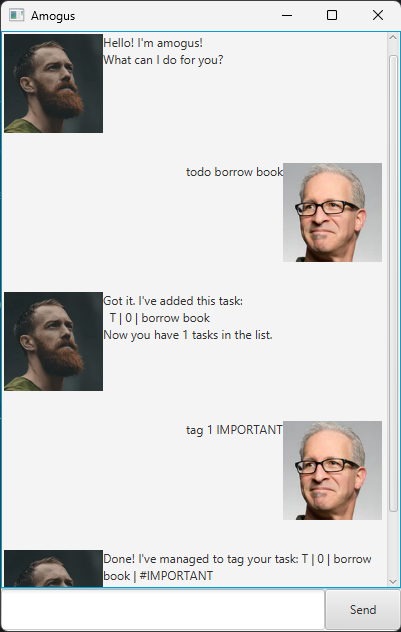
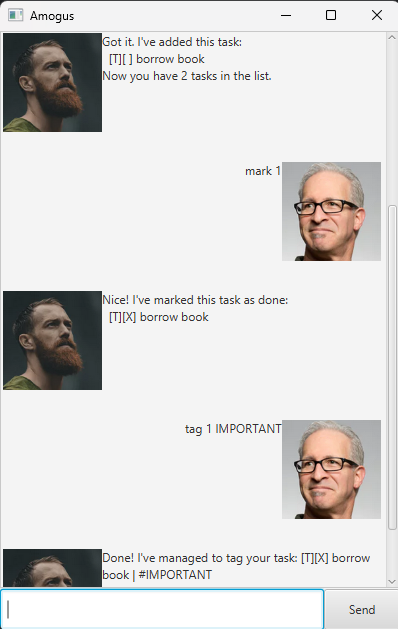
Fix minor issues

diff --git a/src/main/java/tasks/Task.java b/src/main/java/tasks/Task.java
@@ -34,6 +34,20 @@ public class Task {
     }
 
     /**
+     * @return description of task.
+     */
+    public String getDescription() {
+        return this.description;
+    }
+
+    /**
+     * @return boolean check of whether task is done.
+     */
+    public boolean isDone() {
+        return isDone;
+    }
+
+    /**
      * Marks task as complete.
      */
     public void mark() {
@@ -73,10 +87,27 @@ public class Task {
     }
 
     /**
+     * Returns the type of task.
+     * @return type of task.
+     */
+    public String getType() {
+        return " ";
+    }
+
+    /**
+     * Correct display of task for easier understanding.
+     * @return display string of task.
+     */
+    public String getDisplayString() {
+        String statusIcon = isDone ? "X" : " ";
+        return "[" + getType() + "][" + statusIcon + "] " + description + getTag();
+    }
+
+    /**
      * @return string representation of Task
      */
     public String toString() {
-        return this.getStatusIcon() + " | " + this.description;
+        return getType() + " | " + (isDone ? "1" : "0") + " | " + description + getTag();
     }
 
 }

diff --git a/src/main/java/command/TagCommand.java b/src/main/java/command/TagCommand.java
@@ -20,6 +20,14 @@ public class TagCommand implements Command {
         this.desc = desc;
     }
 
+    /**
+     * Tags the task with the given tag information.
+     * @param tasks list of tasks
+     * @param ui ui
+     * @param f list of tasks txt file
+     * @return message of completed tag
+     * @throws AmogusException empty tag
+     */
     @Override
     public String execute(TaskList tasks, UI ui, FileStorage f) throws AmogusException {
         String[] parts = desc.split(" ", 2);
@@ -32,12 +40,16 @@ public class TagCommand implements Command {
             System.out.println(e.getMessage());
             return e.getMessage();
         }
-        String msg = "Done! I've managed to tag your task: " + tasks.getTaskDesc(idx) + "\n";
+        String msg = "Done! I've managed to tag your task: " + tasks.get(idx).getDisplayString() + "\n";
         ui.showMsg(ui.format(msg));
         f.saveTasks(tasks);
         return msg;
     }
 
+    /**
+     * For the program to know when to exit the conversation with user.
+     * @return boolean
+     */
     @Override
     public boolean isExit() {
         return false;

diff --git a/src/main/java/amogus/UI.java b/src/main/java/amogus/UI.java
@@ -2,7 +2,6 @@ package amogus;
 
 import java.util.Scanner;
 
-import javafx.stage.Stage;
 import tasks.TaskList;
 
 /**
@@ -29,6 +28,11 @@ public class UI {
         return msg;
     }
 
+    /**
+     * Formats given message in correct style.
+     * @param msg message to be formatted.
+     * @return formatted message.
+     */
     public String format(String msg) {
         return HORILINES + msg + HORILINES;
     }
@@ -46,7 +50,7 @@ public class UI {
 
         StringBuilder sb = new StringBuilder("Here are the tasks in your list:\n");
         for (int i = 0; i < tasks.getSize(); i++) {
-            sb.append(i + 1).append(". ").append(tasks.getTaskDesc(i)).append("\n");
+            sb.append(i + 1).append(". ").append(tasks.get(i).getDisplayString()).append("\n");
         }
         String msg = sb.toString();
         System.out.println(format(msg));

diff --git a/src/main/java/tasks/Deadlines.java b/src/main/java/tasks/Deadlines.java
@@ -28,7 +28,26 @@ public class Deadlines extends Task {
     }
 
     /**
-     * @return String representation of Deadline task
+     * Returns the type of task.
+     * @return deadline type of task.
+     */
+    @Override
+    public String getType() {
+        return "D";
+    }
+
+    /**
+     * Correct display of task for easier understanding.
+     * @return display string of task.
+     */
+    @Override
+    public String getDisplayString() {
+        return "[" + getType() + "][" + (isDone() ? "X" : " ") + "] "
+                + getDescription() + " (by: " + byDate.toString() + ")" + getTag();
+    }
+
+    /**
+     * @return String representation of Deadline task.
      */
     @Override
     public String toString() {

diff --git a/src/main/java/command/MarkCommand.java b/src/main/java/command/MarkCommand.java
@@ -13,7 +13,7 @@ public class MarkCommand implements Command {
 
     /**
      * Creates the command to mark a task.
-     * @param idx
+     * @param idx index of task in list
      */
     public MarkCommand(int idx) {
         this.idx = idx;
@@ -30,7 +30,7 @@ public class MarkCommand implements Command {
     @Override
     public String execute(TaskList tasks, UI ui, FileStorage f) {
         tasks.mark(idx);
-        String msg = "Nice! I've marked this task as done:\n  " + tasks.getTaskDesc(idx) + "\n";
+        String msg = "Nice! I've marked this task as done:\n  " + tasks.get(idx).getDisplayString() + "\n";
         ui.showMsg(ui.format(msg));
         f.saveTasks(tasks);
         return msg;

diff --git a/src/main/java/tasks/Event.java b/src/main/java/tasks/Event.java
@@ -33,6 +33,26 @@ public class Event extends Task {
     }
 
     /**
+     * Returns the type of task.
+     * @return event type of task.
+     */
+    @Override
+    public String getType() {
+        return "E";
+    }
+
+    /**
+     * Correct display of task for easier understanding.
+     * @return display string of task.
+     */
+    @Override
+    public String getDisplayString() {
+        return "[" + getType() + "][" + (isDone() ? "X" : " ") + "] "
+                + getDescription() + " (from: " + startDate.toString()
+                + " to: " + endDate.toString() + ")" + getTag();
+    }
+
+    /**
      * @return string representation of Event task
      */
     @Override

diff --git a/src/main/java/command/FindCommand.java b/src/main/java/command/FindCommand.java
@@ -22,6 +22,14 @@ public class FindCommand implements Command {
         assert word != null : "unable to search for empty word";
     }
 
+    /**
+     * Searches for keyword from list of tasks and outputs
+     * new list with tasks that match the keyword.
+     * @param tasks list of tasks
+     * @param ui ui
+     * @param f list of task txt file
+     * @return message of completed task
+     */
     @Override
     public String execute(TaskList tasks, UI ui, FileStorage f) {
         TaskList tasksWithWord = new TaskList();

diff --git a/src/main/java/tasks/ToDo.java b/src/main/java/tasks/ToDo.java
@@ -22,11 +22,19 @@ public class ToDo extends Task {
     }
 
     /**
+     * Returns the type of task.
+     * @return todo type of task.
+     */
+    @Override
+    public String getType() {
+        return "T";
+    }
+
+    /**
      * @return string representation of ToDo task
      */
     @Override
     public String toString() {
-        String type = "T | ";
-        return type + super.toString() + this.getTag();
+        return super.toString() + this.getTag();
     }
 }

diff --git a/src/main/java/command/UnmarkCommand.java b/src/main/java/command/UnmarkCommand.java
@@ -30,7 +30,7 @@ public class UnmarkCommand implements Command {
     @Override
     public String execute(TaskList tasks, UI ui, FileStorage f) {
         tasks.unmark(idx);
-        String msg = "OK, I've marked this task as not done yet:\n  " + tasks.getTaskDesc(idx) + "\n";
+        String msg = "OK, I've marked this task as not done yet:\n  " + tasks.get(idx).getDisplayString() + "\n";
         ui.showMsg(ui.format(msg));
         f.saveTasks(tasks);
         return msg;

diff --git a/src/main/java/command/AddDeadlineCommand.java b/src/main/java/command/AddDeadlineCommand.java
@@ -41,7 +41,7 @@ public class AddDeadlineCommand implements Command {
 
         Deadlines deadlines = new Deadlines(descr, by);
 
-        String msg = "Got it. I've added this task:\n  " + deadlines.toString() + "\nNow you have "
+        String msg = "Got it. I've added this task:\n  " + deadlines.getDisplayString() + "\nNow you have "
                 + tasks.getSize() + " tasks in the list.\n";
         tasks.add(deadlines);
         ui.showMsg(ui.format(msg));

diff --git a/src/main/java/command/AddEventCommand.java b/src/main/java/command/AddEventCommand.java
@@ -43,7 +43,7 @@ public class AddEventCommand implements Command {
 
         Event event = new Event(descr, start, end);
 
-        String msg = "Got it. I've added this task:\n  " + event.toString() + "\nNow you have "
+        String msg = "Got it. I've added this task:\n  " + event.getDisplayString() + "\nNow you have "
                 + tasks.getSize() + " tasks in the list.\n";
         tasks.add(event);
         ui.showMsg(ui.format(msg));

diff --git a/src/main/java/command/AddToDoCommand.java b/src/main/java/command/AddToDoCommand.java
@@ -36,7 +36,7 @@ public class AddToDoCommand implements Command {
         ToDo todo = new ToDo(desc);
         tasks.add(todo);
 
-        String msg = "Got it. I've added this task:\n  " + todo + "\nNow you have "
+        String msg = "Got it. I've added this task:\n  " + todo.getDisplayString() + "\nNow you have "
                 + tasks.getSize() + " tasks in the list.";
         ui.showMsg(ui.format(msg));
         f.saveTasks(tasks);
